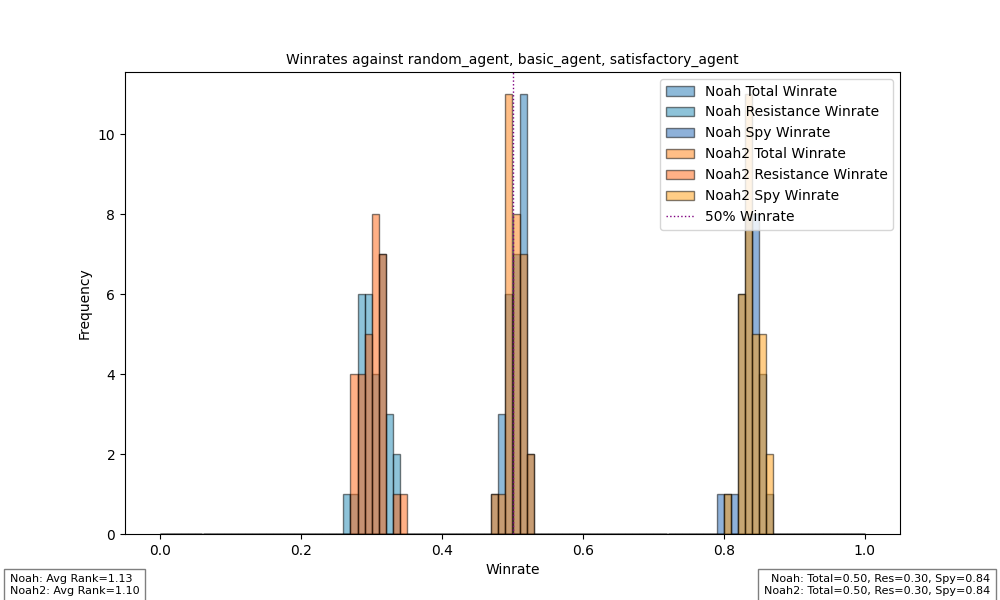
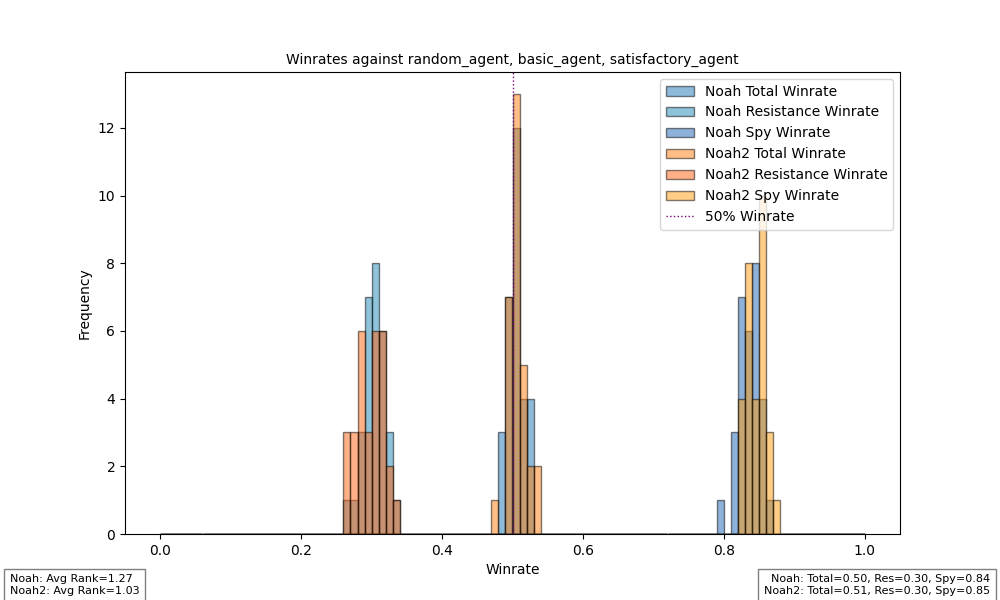
correct probabilistic reasoning

diff --git a/the_resistance/hero/Noah.py b/the_resistance/hero/Noah.py
@@ -3,7 +3,7 @@ import random
 from itertools import combinations
 import math
 
-class Noah(Agent):
+class Noah2(Agent):
     def __init__(self, name):
         self.name = name
 
@@ -13,32 +13,31 @@ class Noah(Agent):
     def __repr__(self):
         return self.__str__()
 
-    def normalize(self):
+    def normalize(self, distribution):
         total = sum(prob for prob in self.possible_worlds.values())
-        for world in self.possible_worlds:
-            self.possible_worlds[world] /= total
-    
-    def spy_probability(self, spy):
-        return sum(prob for world, prob in self.possible_worlds.items() if spy in world)
+        for d in distribution:
+            distribution[d] /= total
+        return distribution
 
     def new_game(self, number_of_players, player_number, spies):
-        n = number_of_players
-        s = super().spy_count[number_of_players]
+        self.n = number_of_players
+        self.s = super().spy_count[self.n]
 
-        self.players = list(range(number_of_players))
+        self.players = list(range(self.n))
         self.spies = spies
         self.spy = True if self.spies else False
         self.id = player_number
 
         if self.spy:
-            self.possible_worlds = {world: 1 for world in combinations(self.players, s)}
+            self.possible_worlds = {world: 1 for world in combinations(self.players, self.s)}
         else:
-            self.possible_worlds = {world: 0 if self.id in world else 1 for world in combinations(self.players, s)}
+            self.possible_worlds = {world: 1 for world in combinations(self.players, self.s) if self.id not in world}
         
-        self.normalize()
+        self.possible_worlds = self.normalize(self.possible_worlds)
+        self.spy_probability = {spy: sum(prob for world, prob in self.possible_worlds.items() if spy in world) for spy in self.players}
 
     def propose_mission(self, team_size, betrayals_required):
-        top_trusted = sorted([p for p in self.players], key=lambda p: self.spy_probability(p))
+        top_trusted = sorted([p for p in self.players], key=lambda p: self.spy_probability[p])
         if self.spy:
             spies = [player for player in top_trusted if player in self.spies and player != self.id]
             non_spies = [player for player in top_trusted if player not in self.spies and player != self.id]
@@ -55,12 +54,11 @@ class Noah(Agent):
             return count == betrayals_required
         
         spy_threshold = 0.5
-        if self.spy_probability(proposer) > spy_threshold:
+        if self.spy_probability[proposer] > spy_threshold:
             return False
         for member in mission:
-            if self.spy_probability(member) > spy_threshold:
-                return False 
-
+            if self.spy_probability[member] > spy_threshold:
+                return False
         return True
 
     def betray(self, mission, proposer, betrayals_required):
@@ -70,24 +68,49 @@ class Noah(Agent):
         pass
 
     def mission_outcome(self, mission, proposer, num_betrayals, mission_success):
-        for world in self.possible_worlds:
+        worlds = self.possible_worlds.copy()
+        for world in worlds:
             # assuming this world contains the set of spies, how many were in the mission?
             num_spies_on_mission = sum(1 for agent in world if agent in mission)
 
             if not mission_success:
                 # Discard any world that does not include at least num_betrayals spies in it that were in the mission
                 if num_spies_on_mission < num_betrayals:
-                    self.possible_worlds[world] = 0
+                    del self.possible_worlds[world]
+                    continue
 
-            likelihood = 0
-            if mission_success:
-                likelihood = 0.1 if num_spies_on_mission else 0.9
-            else: 
-                likelihood = 0.9 if num_spies_on_mission else 0.1
-            
-            self.possible_worlds[world] = likelihood * self.possible_worlds[world]
+            # P(spyA and spyB | fail)
+            # = P(spyA|fail)P(spyB|fail)
+            # = (P(fail | spyA) P(spyA) / P(fail))(P(fail | spyB) P(spyB) / P(fail))
+            # P(fail | spyA) = 0.9
+            # P(spA) = previous probability
+            # P(fail) = P(fail | spyA)P(spyA) + P(fail | not spyA)P(not spyA)
+            # P(fail | not spyA) = 0.1
+            # P(not spyA) = 1 - P(spyA)
+
+
+            p_world_given_outcome = 1
+            for member in world:
+                if member in mission:
+                    if mission_success:
+                        p_outcome_given_spy = 0.1
+                        p_outcome_given_not_spy = 1
+                    else:
+                        p_outcome_given_spy = 0.9
+                        p_outcome_given_not_spy = 0
+
+                    p_spy = self.spy_probability[member]
+                    p_not_spy = 1 - p_spy
+                    
+                    p_outcome = p_outcome_given_spy * p_spy + p_outcome_given_not_spy * p_not_spy
+                    p_spy_given_outcome = p_outcome_given_spy * p_spy / p_outcome
+
+                    p_world_given_outcome *= p_spy_given_outcome
+
+            self.possible_worlds[world] *= p_world_given_outcome
         
-        self.normalize()
+        self.possible_worlds = self.normalize(self.possible_worlds)
+        self.spy_probability = {spy: sum(prob for world, prob in self.possible_worlds.items() if spy in world) for spy in self.players}
 
     def round_outcome(self, rounds_complete, missions_failed):
         pass

diff --git a/the_resistance/hero/Noah2.py b/the_resistance/hero/Noah2.py
@@ -18,28 +18,26 @@ class Noah2(Agent):
         for d in distribution:
             distribution[d] /= total
         return distribution
-    
-    def spy_probability(self, spy):
-        return sum(prob for world, prob in self.possible_worlds.items() if spy in world)
 
     def new_game(self, number_of_players, player_number, spies):
-        n = number_of_players
-        s = super().spy_count[number_of_players]
+        self.n = number_of_players
+        self.s = super().spy_count[self.n]
 
-        self.players = list(range(number_of_players))
+        self.players = list(range(self.n))
         self.spies = spies
         self.spy = True if self.spies else False
         self.id = player_number
 
         if self.spy:
-            self.possible_worlds = {world: 1 for world in combinations(self.players, s)}
+            self.possible_worlds = {world: 1 for world in combinations(self.players, self.s)}
         else:
-            self.possible_worlds = {world: 1 for world in combinations(self.players, s) if self.id not in world}
+            self.possible_worlds = {world: 1 for world in combinations(self.players, self.s) if self.id not in world}
         
         self.possible_worlds = self.normalize(self.possible_worlds)
+        self.spy_probability = {spy: sum(prob for world, prob in self.possible_worlds.items() if spy in world) for spy in self.players}
 
     def propose_mission(self, team_size, betrayals_required):
-        top_trusted = sorted([p for p in self.players], key=lambda p: self.spy_probability(p))
+        top_trusted = sorted([p for p in self.players], key=lambda p: self.spy_probability[p])
         if self.spy:
             spies = [player for player in top_trusted if player in self.spies and player != self.id]
             non_spies = [player for player in top_trusted if player not in self.spies and player != self.id]
@@ -56,10 +54,10 @@ class Noah2(Agent):
             return count == betrayals_required
         
         spy_threshold = 0.5
-        if self.spy_probability(proposer) > spy_threshold:
+        if self.spy_probability[proposer] > spy_threshold:
             return False
         for member in mission:
-            if self.spy_probability(member) > spy_threshold:
+            if self.spy_probability[member] > spy_threshold:
                 return False
         return True
 
@@ -81,15 +79,38 @@ class Noah2(Agent):
                     del self.possible_worlds[world]
                     continue
 
-            likelihood = 0
-            if mission_success:
-                likelihood = 0.1 if num_spies_on_mission else 0.9
-            else: 
-                likelihood = 0.9 if num_spies_on_mission else 0.1
-            
-            self.possible_worlds[world] = likelihood * self.possible_worlds[world]
+            # P(spyA and spyB | fail)
+            # = P(spyA|fail)P(spyB|fail)
+            # = (P(fail | spyA) P(spyA) / P(fail))(P(fail | spyB) P(spyB) / P(fail))
+            # P(fail | spyA) = 0.9
+            # P(spA) = previous probability
+            # P(fail) = P(fail | spyA)P(spyA) + P(fail | not spyA)P(not spyA)
+            # P(fail | not spyA) = 0.1
+            # P(not spyA) = 1 - P(spyA)
 
+
+            p_world_given_outcome = 1
+            for member in world:
+                if member in mission:
+                    if mission_success:
+                        p_outcome_given_spy = 0.1
+                        p_outcome_given_not_spy = 1
+                    else:
+                        p_outcome_given_spy = 0.9
+                        p_outcome_given_not_spy = 0
+
+                    p_spy = self.spy_probability[member]
+                    p_not_spy = 1 - p_spy
+                    
+                    p_outcome = p_outcome_given_spy * p_spy + p_outcome_given_not_spy * p_not_spy
+                    p_spy_given_outcome = p_outcome_given_spy * p_spy / p_outcome
+
+                    p_world_given_outcome *= p_spy_given_outcome
+
+            self.possible_worlds[world] *= p_world_given_outcome
+        
         self.possible_worlds = self.normalize(self.possible_worlds)
+        self.spy_probability = {spy: sum(prob for world, prob in self.possible_worlds.items() if spy in world) for spy in self.players}
 
     def round_outcome(self, rounds_complete, missions_failed):
         pass

diff --git a/the_resistance/distribution.py b/the_resistance/distribution.py
@@ -60,7 +60,6 @@ def run_tournament(agent_file, agent_name, contestants):
     stdout = result.stdout
     stderr = result.stderr
 
-    print(stdout)
     coming = False
     total_winrate, res_win_rate, spy_win_rate, ranking = 0, 0, 0, 0
     for line in stdout.split("\n"):
